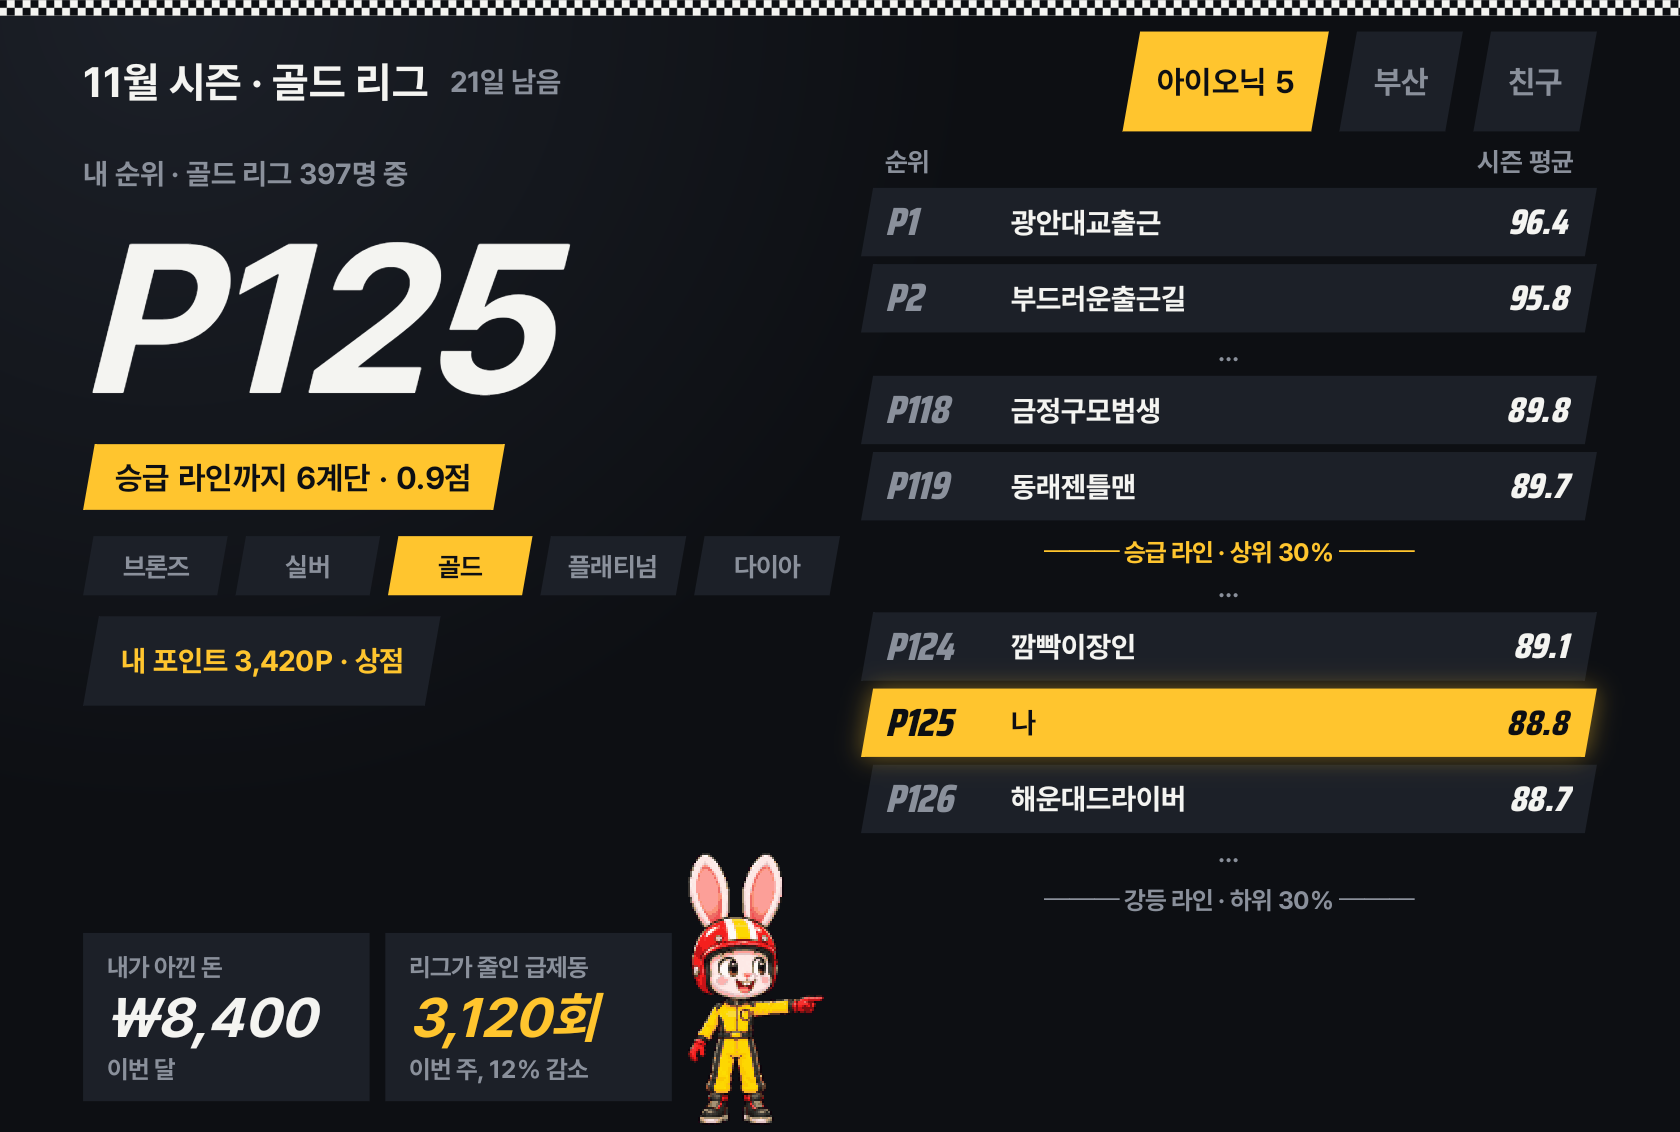
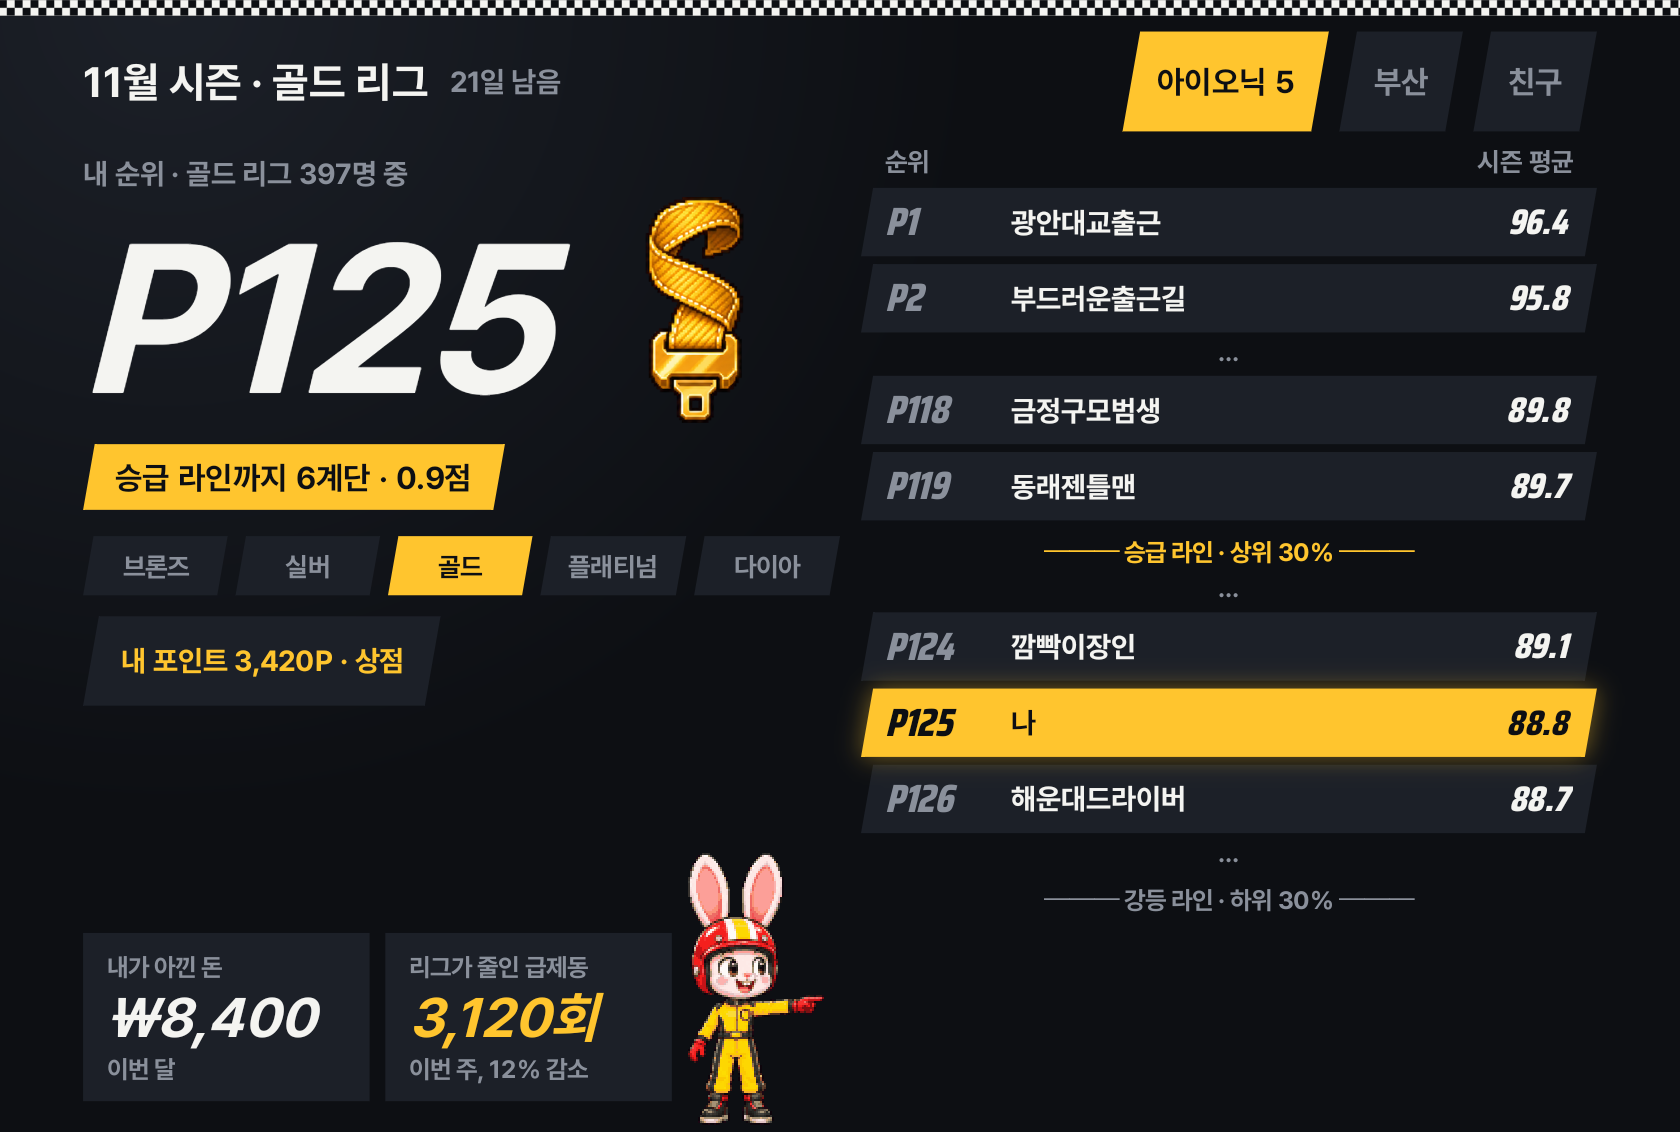
feat: 리그와 정산 화면에 티어 안전벨트 추가

Changed region(s): [[0.3714, 0.1546, 0.4643, 0.371]]

diff --git a/app/src/main/java/io/github/ddayoung03/safetyleague/ui/ScreenStyle.kt b/app/src/main/java/io/github/ddayoung03/safetyleague/ui/ScreenStyle.kt
@@ -18,6 +18,15 @@ import io.github.ddayoung03.safetyleague.ui.motion.MotionTokens
 import io.github.ddayoung03.safetyleague.ui.view.SkewDrawable
 import kotlin.math.roundToInt
 
+/** 티어를 나타내는 안전벨트 그림. 모르는 티어는 브론즈로 본다. */
+internal fun tierBelt(tier: String) = when (tier) {
+    "실버" -> R.drawable.tier_belt_silver
+    "골드" -> R.drawable.tier_belt_gold
+    "플래티넘" -> R.drawable.tier_belt_platinum
+    "다이아" -> R.drawable.tier_belt_diamond
+    else -> R.drawable.tier_belt_bronze
+}
+
 internal fun MainActivity.dp(v: Int) = TypedValue.applyDimension(TypedValue.COMPLEX_UNIT_DIP, v.toFloat(), resources.displayMetrics).roundToInt()
 internal fun MainActivity.dp(v: Float) = dp(v.roundToInt())
 internal fun MainActivity.color(id: Int) = ContextCompat.getColor(this, id)

diff --git a/app/src/test/java/io/github/ddayoung03/safetyleague/ui/TierBeltTest.kt b/app/src/test/java/io/github/ddayoung03/safetyleague/ui/TierBeltTest.kt
@@ -1,0 +1,17 @@
+package io.github.ddayoung03.safetyleague.ui
+
+import io.github.ddayoung03.safetyleague.R
+import io.github.ddayoung03.safetyleague.core.calculator.TierMovement
+import org.junit.Assert.assertEquals
+import org.junit.Test
+
+class TierBeltTest {
+    @Test fun everyTierHasItsOwnBelt() {
+        assertEquals(5, TierMovement.tiers.map(::tierBelt).distinct().size)
+        assertEquals(R.drawable.tier_belt_diamond, tierBelt("다이아"))
+    }
+
+    @Test fun unknownTierFallsBackToBronze() {
+        assertEquals(R.drawable.tier_belt_bronze, tierBelt("없는 티어"))
+    }
+}

diff --git a/app/src/main/java/io/github/ddayoung03/safetyleague/ui/SettlementScreen.kt b/app/src/main/java/io/github/ddayoung03/safetyleague/ui/SettlementScreen.kt
@@ -29,7 +29,8 @@ internal fun MainActivity.showSettlement() {
     b.tvPoints.text = pointsLabel(c.points)
     val tag = tierTag(c)
     b.tvTierTag.text = tag
-    b.tvTierTag.visibility = if (tag == null) View.GONE else View.VISIBLE
+    b.tierRow.visibility = if (tag == null) View.GONE else View.VISIBLE
+    b.ivTierBelt.setImageResource(tierBelt(c.promotedTo ?: c.tier))
     b.tvDetail.text = detailText(c)
     b.btnSettleShop.setOnClickListener {
         if (!demoMode) seasonStore.clearCard()

diff --git a/app/src/main/java/io/github/ddayoung03/safetyleague/ui/LeagueScreen.kt b/app/src/main/java/io/github/ddayoung03/safetyleague/ui/LeagueScreen.kt
@@ -50,6 +50,7 @@ internal fun MainActivity.showLeague() {
         b.tvBrakesCaption.text = DemoData.brakesCaption
     }
     val tier = if (real) myTier else DemoData.league.tier
+    b.ivTierBelt.setImageResource(tierBelt(tier))
     for (cell in b.tierBar.children.map { it as TextView }) {
         cell.background = skew(if (cell.text == tier) R.color.yellow else R.color.ink_glow)
         cell.setTextColor(color(if (cell.text == tier) R.color.ink else R.color.ink_muted))
